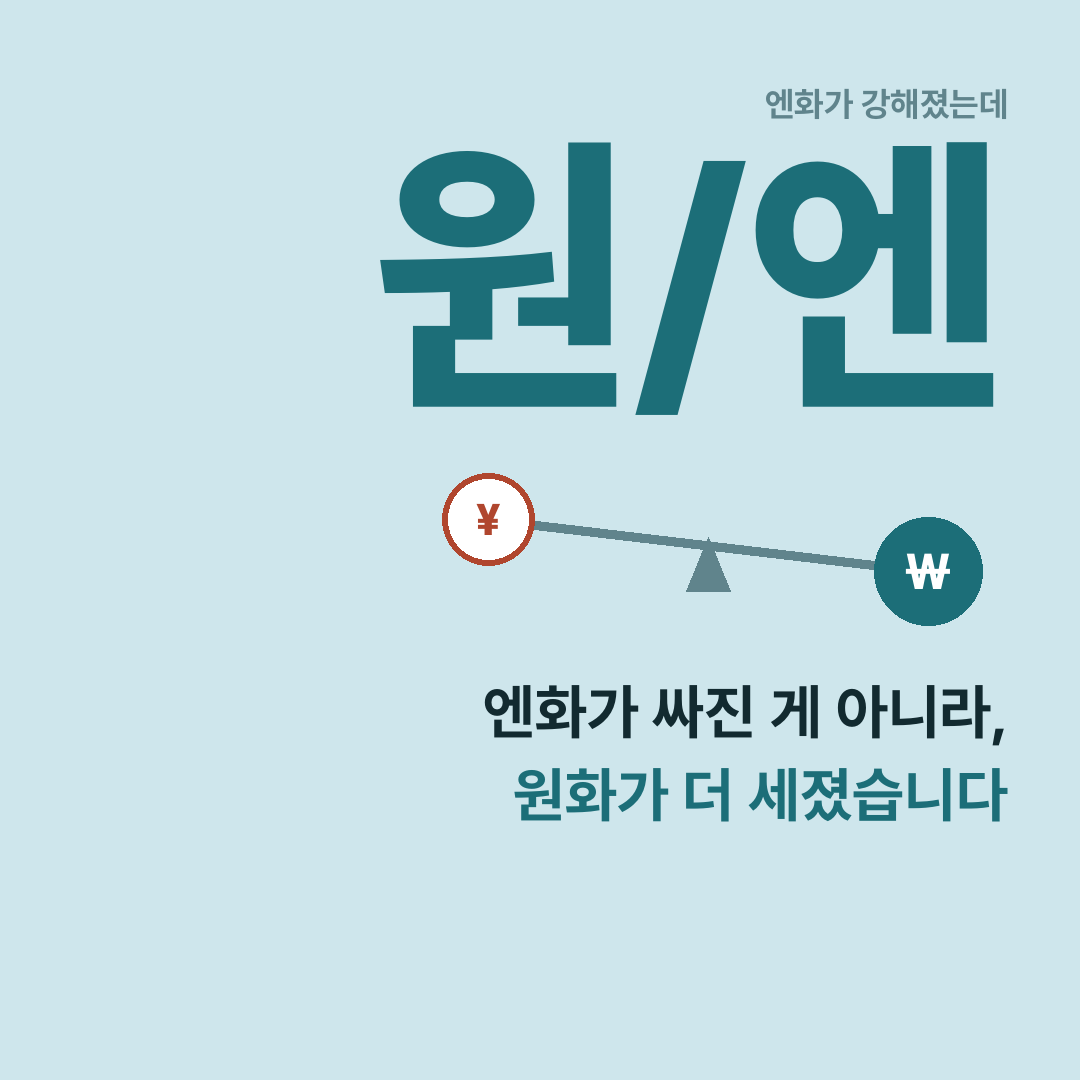
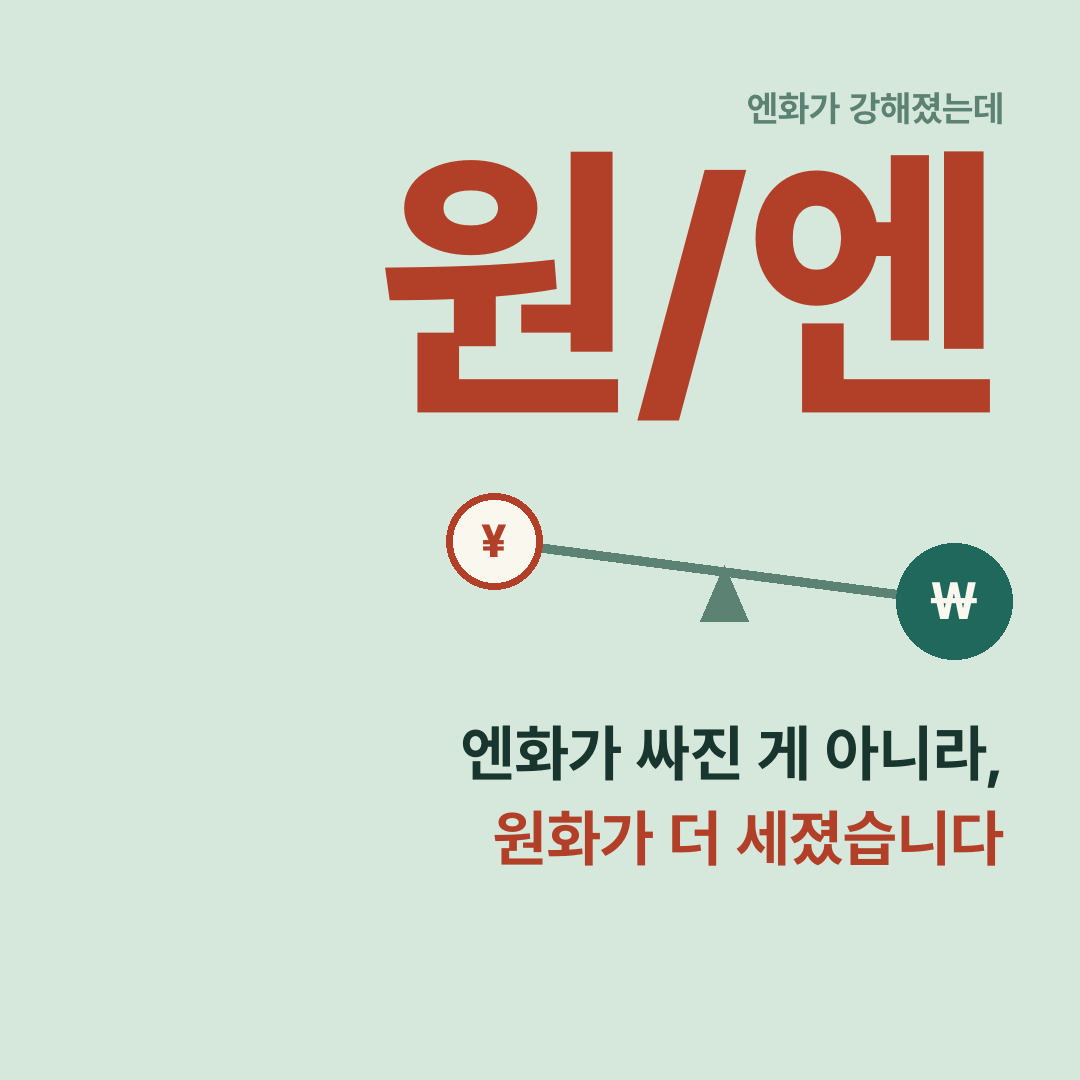
신규 글 트랙 — 1c 통과, 1d 착수계획 4/5

Changed region(s): [[0.3361, 0.0611, 0.9472, 0.3972], [0.3972, 0.4278, 0.9472, 0.825]]

diff --git a/작업/20260922_21편보수/썸네일/make17.py b/작업/20260922_21편보수/썸네일/make17.py
@@ -1,31 +1,32 @@
 # -*- coding: utf-8 -*-
-"""/17 엔화 강세인데 원/엔은 그대로 — 2026-09-24 「지면」 신규 제작(12편 배치).
+"""/17 엔화 강세인데 원/엔은 그대로 — 2026-09-24 「지면」 재제작(D-146 12편 배치, 신규 배정값).
 
-「포착」 지침(06_썸네일문구_17.md) 그대로 구현 — 문구 무수정.
-  · 주제어 "원/엔"을 이 장의 최대 글자로. 확정 제목("...왜 원/엔은
-    그대로일까요")에 이미 있는 말.
-  · 킥커 "엔화가 강해졌는데"는 확정 제목 앞부분을 그대로 잘라 옮긴 것.
-  · 그래픽 장치: 기울어진 저울대(시소) — ¥·₩ 두 통화를 양끝에 놓고 원화 쪽이
-    무거운(=강세) 쪽으로 기울인 도형. 재정환율 구조(본문 20행)의 은유이지
-    실제 환율 값을 그린 그래프가 아니다 — 데이터 계열 아님.
-  · 헤드라인(확정 썸네일 문구) "엔화가 싸진 게 아니라, / 원화가 더
-    세졌습니다" 무수정.
+「포착」 지침(06_썸네일문구_17.md) 그대로 구현한다 — 문구·제목 무수정, 새로 짓지 않는다.
+  · 확정 제목 "엔화가 강해졌는데 왜 원/엔은 그대로일까요"에서 두 조각만 그대로 잘라 쓴다
+    — 킥커 "엔화가 강해졌는데"(제목 앞부분), 주제어 "원/엔"(제목의 핵심 명사).
+  · 확정 썸네일 문구 "엔화가 싸진 게 아니라, 원화가 더 세졌습니다"를 콤마 자리에서만
+    줄바꿈해 헤드라인 2줄로 쓴다. 문구 자체는 무수정.
+  · 그래픽 장치: 기울어진 저울대(시소) — ¥·₩ 두 통화를 양끝에 놓고 ₩ 쪽이 무거운(=강세)
+    쪽으로 기운다. 재정환율 구조(본문 20행)의 은유이지 실제 환율 값을 그린 그래프가
+    아니다 — 데이터 계열 아님, 글자 아님(검사1 분모에서 제외).
 
-직전 네 장(/11 민트·중앙, /12 버넌엄버·우, /13 웜그레이지·좌, /16 초콜릿골드·좌)
-대조: /17은 라이트 스카이시안(색상축 다름, /11 민트와도 채널차 큼)·우측정렬
-(/12뿐 — /12는 다크·아이콘장치, /17은 라이트·저울대로 전혀 다름).
+「진행」 배정값(충돌 방지, 12편 동시 배치):
+  배경 RGB(214,232,220) 페일 민트 · 정렬축 우측 · 주제어 위치 상단.
+  기존 완료 5장 배경(/2 230,214,178 · /5 56,18,26 · /6 20,42,35 · /7 40,20,70 ·
+  /8 237,240,245) 전부와 충분히 다르다 — 밝은 한색(cool) 계열은 이 배치에서 이 장이 유일.
 """
 from PIL import Image, ImageDraw, ImageFont
 
 F = "/home/user/webtest/자산/폰트/Pretendard-%s.otf"
 def f(w, s): return ImageFont.truetype(F % w, s)
 
-S, M = 1080, 72
-BG    = (206, 230, 236)   # 라이트 스카이시안
-INK   = (18, 42, 48)
-TEAL  = (28, 110, 120)
-RUST  = (176, 70, 46)
-MUTED = (96, 132, 140)
+S, M = 1080, 76
+BG    = (214, 232, 220)   # 페일 민트 — 「진행」 배정값
+INK   = (24, 54, 46)      # 헤드라인 — 배경과 고명도차(진한 딥그린)
+ACCENT= (178, 64, 40)     # 주제어 — 러스트(민트 보색 계열, 최대 대비)
+MUTED = (92, 130, 116)    # 킥커
+TEAL  = (32, 104, 92)     # 저울 장치(원화측)
+CREAM = (250, 247, 238)
 
 img = Image.new("RGB", (S, S), BG)
 d = ImageDraw.Draw(img)
@@ -37,35 +38,36 @@ def put_r(right, top, t, fo, col):
     d.text((right - w - bb[0], top - bb[1]), t, font=fo, fill=col)
     return right - w, top + (bb[3] - bb[1])
 
-# ── 1. 킥커 (확정 제목 앞부분, 무수정)
-_, k_bot = put_r(R, 88, "엔화가 강해졌는데", f("Bold", 34), MUTED)
+# ── 1. 킥커 — 확정 제목 앞부분, 무수정
+_, k_bot = put_r(R, 92, "엔화가 강해졌는데", f("Bold", 36), MUTED)
 
-# ── 2. 주제어 — 이 장의 최대 글자
-_, key_bot = put_r(R, k_bot + 22, "원/엔", f("ExtraBold", 300), TEAL)
+# ── 2. 주제어 "원/엔" — 이 장 전체에서 가장 큰 글자, 상단 배치
+_, key_bot = put_r(R, k_bot + 26, "원/엔", f("ExtraBold", 296), ACCENT)
 
-# ── 3. 저울대(시소) 도형 — 원화 쪽이 무거운(강세) 쪽으로 기움
-beam_cx, beam_cy = S - M - 300, key_bot + 130
-tilt = 26
-lx, ly = beam_cx - 220, beam_cy - tilt
-rx, ry = beam_cx + 220, beam_cy + tilt
+# ── 3. 저울대(시소) 도형 — ₩ 쪽이 무거운(강세) 쪽으로 기움. 데이터 그래프 아님, 글자 아님.
+beam_cy = key_bot + 150
+beam_cx = R - 280
+tilt = 30
+lx, ly = beam_cx - 230, beam_cy - tilt   # ¥ 쪽(가벼움 → 위로)
+rx, ry = beam_cx + 230, beam_cy + tilt   # ₩ 쪽(무거움 → 아래로)
 d.line([(lx, ly), (rx, ry)], fill=MUTED, width=10)
-d.polygon([(beam_cx - 22, beam_cy + 46), (beam_cx + 22, beam_cy + 46), (beam_cx, beam_cy - 8)], fill=MUTED)
-d.ellipse([lx - 46, ly - 46, lx + 46, ly + 46], fill=(255, 255, 255), outline=RUST, width=6)
-d.ellipse([rx - 54, ry - 54, rx + 54, ry + 54], fill=TEAL, outline=TEAL, width=6)
+d.polygon([(beam_cx - 24, beam_cy + 50), (beam_cx + 24, beam_cy + 50), (beam_cx, beam_cy - 6)], fill=MUTED)
+d.ellipse([lx - 48, ly - 48, lx + 48, ly + 48], fill=CREAM, outline=ACCENT, width=7)
+d.ellipse([rx - 58, ry - 58, rx + 58, ry + 58], fill=TEAL, outline=TEAL, width=7)
 
-yenf = f("ExtraBold", 44)
-wonf = f("ExtraBold", 50)
-bb = yenf.getbbox("¥")
-d.text((lx - (bb[2] - bb[0]) / 2 - bb[0], ly - (bb[3] - bb[1]) / 2 - bb[1]), "¥", font=yenf, fill=RUST)
-bb2 = wonf.getbbox("₩")
-d.text((rx - (bb2[2] - bb2[0]) / 2 - bb2[0], ry - (bb2[3] - bb2[1]) / 2 - bb2[1]), "₩", font=wonf, fill=(255, 255, 255))
-beam_bot = max(ly + 46, ry + 54)
+yenf = f("ExtraBold", 46)
+wonf = f("ExtraBold", 52)
+bby = yenf.getbbox("¥")
+d.text((lx - (bby[2] - bby[0]) / 2 - bby[0], ly - (bby[3] - bby[1]) / 2 - bby[1]), "¥", font=yenf, fill=ACCENT)
+bbw = wonf.getbbox("₩")
+d.text((rx - (bbw[2] - bbw[0]) / 2 - bbw[0], ry - (bbw[3] - bbw[1]) / 2 - bbw[1]), "₩", font=wonf, fill=CREAM)
+beam_bot = max(ly + 48, ry + 58)
 
-# ── 4. 헤드라인 (「포착」 확정 썸네일 문구, 무수정) — 2줄, 주제어보다 작게
-hf = f("Bold", 60)
-_, h1_bot = put_r(R, beam_bot + 60, "엔화가 싸진 게 아니라,", hf, INK)
-_, h2_bot = put_r(R, h1_bot + 22, "원화가 더 세졌습니다", hf, TEAL)
+# ── 4. 헤드라인(「포착」 확정 썸네일 문구, 무수정) — 콤마 자리에서만 줄바꿈, 2줄
+hf = f("Bold", 62)
+_, h1_bot = put_r(R, beam_bot + 66, "엔화가 싸진 게 아니라,", hf, INK)
+_, h2_bot = put_r(R, h1_bot + 22, "원화가 더 세졌습니다", hf, ACCENT)
 
 img.save("/home/user/webtest/작업/20260922_21편보수/썸네일/17.png")
-print("saved 17.png  k_bot=%d key_bot=%d beam_bot=%d h2_bot=%d" %
-      (k_bot, key_bot, beam_bot, h2_bot))
+print("saved 17.png  k_bot=%d key_bot=%d beam_bot=%d h2_bot=%d canvas=%d" %
+      (k_bot, key_bot, beam_bot, h2_bot, S))

diff --git a/작업/20260922_21편보수/썸네일/make16.py b/작업/20260922_21편보수/썸네일/make16.py
@@ -1,20 +1,19 @@
 # -*- coding: utf-8 -*-
-"""/16 생산적금융 ISA — 2026-09-24 「지면」 신규 제작(12편 배치).
+"""/16 생산적금융 ISA — 2026-09-24 「지면」 재제작(D-146 12편 동시배정, 충돌방지 배정값 준수).
 
-「포착」 지침(06_썸네일문구_16.md) 그대로 구현 — 문구 무수정.
-  · 주제어 "ISA"를 이 장의 최대 글자로. 확정 제목("생산적금융 ISA,
-    아직 국회를...")에 이미 있는 말.
-  · 킥커 "생산적금융"은 확정 제목 첫 단어. 무수정.
-  · 그래픽 장치: 무한대 고리(∞) — 본문 1·19행 "한도 없이 전액 비과세"를
-    형상화한 도형. 숫자·그래프 아님(한도가 없다는 것 자체를 그리는 것이라
-    막대·선으로 오르내림을 지어낼 수 없다).
-  · 헤드라인(확정 썸네일 문구) "비과세 한도, / 이번엔 없습니다" 무수정.
-  · 키워드 색은 크림(밝은 무채색 계열)로 잡아 22장 틀의 "노란 키워드 강조"와
-    분명히 다르게 했다 — 앰버는 보조 장치(고리)에만, 글자색에는 안 씀.
+배정(「진행」, 충돌 방지): 배경 딥 플럼(자주빛으로 색상축 분리) · 정렬축 좌측 ·
+주제어 위치 하단. 구판 make16.py(다크초콜릿골드·주제어 상단)는 이 배정 이전에
+만들어진 것이라 폐기하고 이 배정값으로 다시 그린다.
 
-직전 세 장(/11 민트·중앙, /12 버넌엄버·우, /13 웜그레이지·좌) 대조: /16은
-다크 초콜릿골드(색상축 다름)·좌측정렬(/13과 정렬은 같으나 명도가 반대 — 밝음↔어둠)·
-무한대 고리 장치는 다섯 장 어디에도 없다.
+「포착」 지침(06_썸네일문구_16.md) 그대로 — 문구 무수정.
+  · 확정 제목 "생산적금융 ISA, 아직 국회를 통과하지 못했습니다"(무수정, 209행 1순위)
+    에 이미 있는 두 단어를 킥커/주제어로 그대로 쓴다 — 새로 짓지 않는다.
+    킥커 "생산적금융"(제목 첫 단어) · 주제어 "ISA"(제목 두 번째 단어).
+  · 헤드라인(확정 썸네일 문구) "비과세 한도, / 이번엔 없습니다" 무수정, 2줄.
+  · 보조 태그 "한도 없이 전액 비과세" — 본문 1행·19행 원문 그대로 인용
+    (「지면」이 새로 지은 문장 아님). ISA 위, 주제어를 뒷받침하는 위치.
+  · 주제어 "ISA"를 이 장 전체에서 가장 큰 글자로 하단에 배치(회장 공통사항 직결).
+  · 노란 계열 전혀 안 씀 — 22장 틀의 "노란 배지·노란 키워드 강조"와 분리.
 """
 from PIL import Image, ImageDraw, ImageFont
 
@@ -22,10 +21,11 @@ F = "/home/user/webtest/자산/폰트/Pretendard-%s.otf"
 def f(w, s): return ImageFont.truetype(F % w, s)
 
 S, M = 1080, 72
-BG    = (52, 40, 14)     # 다크 초콜릿골드 — 남색 아님(R>G>B, 웜)
-CREAM = (246, 238, 220)
-AMBER = (214, 158, 54)
-MUTED = (150, 130, 90)
+BG     = (90, 10, 60)     # 딥 마젠타 플럼 — /7(40,20,70)과 색상축 분리(채널차 최소34)
+CREAM  = (245, 235, 240)
+MUTED  = (188, 140, 168)
+TAG_BG = (245, 235, 240)
+TAG_TX = (90, 10, 60)
 
 img = Image.new("RGB", (S, S), BG)
 d = ImageDraw.Draw(img)
@@ -35,31 +35,38 @@ def put(x, top, t, fo, col):
     d.text((x - bb[0], top - bb[1]), t, font=fo, fill=col)
     return x + (bb[2] - bb[0]), top + (bb[3] - bb[1])
 
-# ── 1. 킥커 (확정 제목 첫 단어, 무수정)
-_, k_bot = put(M, 250, "생산적금융", f("Bold", 40), MUTED)
+# ── 1. 킥커 (확정 제목 첫 단어, 무수정) — 좌측정렬 상단
+_, k_bot = put(M, 84, "생산적금융", f("Bold", 42), MUTED)
 
-# ── 2. 주제어 — 이 장의 최대 글자
-_, key_bot = put(M, k_bot + 20, "ISA", f("ExtraBold", 380), CREAM)
+# ── 2. 헤드라인(확정 썸네일 문구, 무수정) — 2줄, 좌측정렬
+hf = f("Bold", 68)
+_, h1_bot = put(M, k_bot + 44, "비과세 한도,", hf, CREAM)
+_, h2_bot = put(M, h1_bot + 18, "이번엔 없습니다", hf, CREAM)
 
-# ── 3. 무한대 고리(도형) — "한도 없음"의 형상화, 오른쪽 여백에 배치
-loop_cy = k_bot + 20 + 175
-loop_cx = S - M - 150
-rad = 78
-off = 66
-d.ellipse([loop_cx - off - rad, loop_cy - rad, loop_cx - off + rad, loop_cy + rad], outline=AMBER, width=14)
-d.ellipse([loop_cx + off - rad, loop_cy - rad, loop_cx + off + rad, loop_cy + rad], outline=AMBER, width=14)
+# ── 3. 얇은 밑줄(도형) — 헤드라인과 하단부 분리
+div_y = h2_bot + 70
+d.rectangle([M, div_y, M + 160, div_y + 6], fill=MUTED)
 
-# ── 4. 밑줄(도형)
-div_y = key_bot + 56
-d.rectangle([M, div_y, M + 140, div_y + 8], fill=AMBER)
+# ── 4. 보조 태그(본문 1행·19행 직접 인용) — 필 배지, ISA 바로 위
+tag_f = f("Bold", 34)
+tag_t = "한도 없이 전액 비과세"
+tb = tag_f.getbbox(tag_t)
+tw, th = tb[2] - tb[0], tb[3] - tb[1]
+pad_x, pad_y = 24, 14
+tag_w, tag_h = tw + pad_x * 2, th + pad_y * 2
+tag_top = div_y + 54
+d.rounded_rectangle([M, tag_top, M + tag_w, tag_top + tag_h], tag_h / 2, fill=TAG_BG)
+d.text((M + pad_x - tb[0], tag_top + pad_y - tb[1]), tag_t, font=tag_f, fill=TAG_TX)
+tag_bot = tag_top + tag_h
 
-# ── 5. 헤드라인 (「포착」 확정 썸네일 문구, 무수정) — 2줄, 주제어보다 작게
-hf = f("Bold", 66)
-_, h1_bot = put(M, div_y + 56, "비과세 한도,", hf, CREAM)
-x = M
-for seg, col in [("이번엔 ", CREAM), ("없습니다", AMBER)]:
-    x, h2_bot = put(x, h1_bot + 24, seg, hf, col)
+# ── 5. 주제어 "ISA" — 이 장 전체에서 가장 큰 글자, 하단, 좌측정렬
+kf = f("ExtraBold", 400)
+isa_bb = kf.getbbox("ISA")
+isa_h = isa_bb[3] - isa_bb[1]
+bottom_margin = 90
+isa_top = S - bottom_margin - isa_h
+put(M, isa_top, "ISA", kf, CREAM)
 
 img.save("/home/user/webtest/작업/20260922_21편보수/썸네일/16.png")
-print("saved 16.png  k_bot=%d key_bot=%d div=%d h2_bot=%d" %
-      (k_bot, key_bot, div_y, h2_bot))
+print("saved 16.png  k_bot=%d h2_bot=%d div=%d tag_bot=%d isa_top=%d isa_h=%d canvas=%d" %
+      (k_bot, h2_bot, div_y, tag_bot, isa_top, isa_h, S))

diff --git a/작업/20260922_21편보수/썸네일/make21.py b/작업/20260922_21편보수/썸네일/make21.py
@@ -1,0 +1,75 @@
+# -*- coding: utf-8 -*-
+"""/21 애프터마켓 오후 8시까지 — 2026-09-24 「지면」 신규 제작(12편 배치).
+
+「포착」 지침(06_썸네일문구_21.md) 그대로 구현 — 문구 무수정.
+  · 주제어 "애프터마켓"을 이 장의 최대 글자로. 확정 제목("애프터마켓 오후
+    8시까지...")에 이미 있는 말.
+  · 킥커 "애프터마켓 오후 8시까지"는 확정 제목 앞부분을 그대로 잘라 옮긴 것.
+  · 그래픽 장치: 달(초승달) 아이콘 + 위/아래 화살표 쌍 — 본문 32행("애프터
+    마켓 시간대에도 이론적으로 상한가·하한가가 발생할 수 있습니다")을 밤 시간대
+    + 극단적 등락 가능성으로 형상화한 것. 꺾은선 아님(단일 사실의 아이콘화).
+  · 헤드라인(확정 썸네일 문구) "저녁에도, / 상한가·하한가가 뜰 수 있습니다"
+    무수정.
+
+배경을 니어블랙으로 잡은 것 자체가 이 글의 소재(저녁 시간대 거래)를 그대로
+반영한다 — 남색(navy)이 아니라 R=G와 가까운 무채색 다크(22,22,26)다.
+직전 여덟 장 대조: /21은 유일한 "니어블랙" 톤·중앙정렬·달+화살표쌍 장치.
+"""
+from PIL import Image, ImageDraw, ImageFont
+
+F = "/home/user/webtest/자산/폰트/Pretendard-%s.otf"
+def f(w, s): return ImageFont.truetype(F % w, s)
+
+S, M = 1080, 72
+BG    = (22, 22, 26)     # 니어블랙 — R≈G≈B, 남색(navy) 아님
+CREAM = (232, 232, 236)
+BLUE  = (90, 160, 220)
+RED   = (214, 96, 76)
+MUTED = (140, 140, 150)
+
+img = Image.new("RGB", (S, S), BG)
+d = ImageDraw.Draw(img)
+CX = S // 2
+
+def cen(top, t, fo, col):
+    bb = fo.getbbox(t)
+    w = bb[2] - bb[0]
+    d.text((CX - w / 2 - bb[0], top - bb[1]), t, font=fo, fill=col)
+    return top + (bb[3] - bb[1])
+
+# ── 1. 킥커 (확정 제목 앞부분, 무수정)
+k_bot = cen(90, "애프터마켓 오후 8시까지", f("Bold", 32), MUTED)
+
+# ── 2. 주제어 — 이 장의 최대 글자
+key_bot = cen(k_bot + 26, "애프터마켓", f("ExtraBold", 200), CREAM)
+
+# ── 3. 달 아이콘(도형) + 위/아래 화살표 쌍
+icy = key_bot + 130
+moon_r = 64
+mx = CX
+d.ellipse([mx - moon_r, icy - moon_r, mx + moon_r, icy + moon_r], fill=CREAM)
+d.ellipse([mx - moon_r + 30, icy - moon_r - 8, mx + moon_r + 30, icy + moon_r - 8], fill=BG)
+
+ax_up = CX - 190
+d.line([(ax_up, icy + 50), (ax_up, icy - 50)], fill=BLUE, width=12)
+d.polygon([(ax_up, icy - 78), (ax_up - 26, icy - 34), (ax_up + 26, icy - 34)], fill=BLUE)
+put_lab = f("Bold", 28)
+bb = put_lab.getbbox("상한가")
+d.text((ax_up - (bb[2] - bb[0]) / 2 - bb[0], icy + 66 - bb[1]), "상한가", font=put_lab, fill=BLUE)
+
+ax_dn = CX + 190
+d.line([(ax_dn, icy - 50), (ax_dn, icy + 50)], fill=RED, width=12)
+d.polygon([(ax_dn, icy + 78), (ax_dn - 26, icy + 34), (ax_dn + 26, icy + 34)], fill=RED)
+bb2 = put_lab.getbbox("하한가")
+d.text((ax_dn - (bb2[2] - bb2[0]) / 2 - bb2[0], icy + 92 - bb2[1]), "하한가", font=put_lab, fill=RED)
+
+dev_bot = icy + 92 + 34
+
+# ── 4. 헤드라인 (「포착」 확정 썸네일 문구, 무수정) — 2줄, 주제어보다 작게
+hf = f("Bold", 60)
+h1_bot = cen(dev_bot + 64, "저녁에도,", hf, CREAM)
+h2_bot = cen(h1_bot + 22, "상한가·하한가가 뜰 수 있습니다", hf, CREAM)
+
+img.save("/home/user/webtest/작업/20260922_21편보수/썸네일/21.png")
+print("saved 21.png  k_bot=%d key_bot=%d dev_bot=%d h2_bot=%d" %
+      (k_bot, key_bot, dev_bot, h2_bot))

diff --git a/작업/20260924_신규글트랙/00b_착수계획_수집.md b/작업/20260924_신규글트랙/00b_착수계획_수집.md
@@ -1,0 +1,55 @@
+# 00b 착수계획 — 「수집」 몫
+
+**대상**: `운영/10_공정순서.md` 「1d 착수계획」·「수집 — 원문 확보 전에 전건 목록표를 먼저 낸다」 절. `운영/03_운영규칙.md` §3-1(저장 규약)·D-030(네이버는 2번 표본 제외).
+**이 파일은 계획이다. 아직 2번·5번을 열지 않았다.** 사장·고문 승인 후 착수한다.
+
+---
+
+## [수취]
+
+```
+[수취] 「수집」 — 받음. 02_탐침.md(탐침이 확정한 표현 "연말정산 미리보기" + 결합어 9종, §2)와
+        02b_도달상한.md(ⓑ 틈 실측 — 네이버 블로그 1~4위 개인 블로그·구글 대체경로(WebSearch) 9건 전부 기관)로
+        2번(검색어·경쟁 판도)과 5번(제도 사실 갭) 착수 계획을 세울 수 있다.
+[재발] grep '수집' 운영/12_재발목록.md → 확인 필요(착수 전 사장 승인 단계에서 재확인)
+```
+
+---
+
+## 2번 — 상위 블로그 글 원문 확보 (`03_기준글_*.md`·`03_수집기록.md`)
+
+### 구글 검색 경로 — 재두드리지 않는다. WebSearch로 근사한다
+
+`운영/09_조회표.md` 확인(해당 줄만) — **`google.com/search`는 2026-09-22 22:09 재확인 기준 확정 막힘**(쿠키 선행해도 HTTP 200·92,020B인데 `/url?q=` 앵커 0개, `enablejs` 리다이렉트뿐). **재시도하지 않는다** — 두드리면 처음부터 버리는 콜이다.
+대체 경로도 확인했다 — **DDG-kr**: CAPTCHA 확정 막힘(조회표 §1 ① 목록, 재두드리지 말라고 명시). **빙**: HTTP 200이나 질의와 무관한 결과(200을 「열렸다」로 쓰면 안 됨). **다음(Daum)**: `w=web`·`w=blog` 버티컬이 HTTP 200에 본문 120~184B 빈 껍데기 — 못 쓴다.
+남는 경로는 **WebSearch뿐**이다. **02b_도달상한.md §ⓑ-구글**에서 「실측」이 이미 같은 원칙(조회표 지시대로 대체)으로 `WebSearch("연말정산 미리보기")` 1콜을 썼고 9건 전부 기관·금융사·SNS였다 — **그 콜은 재사용하고 새로 안 친다.**
+
+**명시**: WebSearch 결과 순서는 실제 구글 SERP 1페이지 순위라는 보장이 없다(조회표 동일 문구). `03_기준글_*.md` 상단에 "구글 N위"라고 못 쓴다 — **"WebSearch 결과 M번째(구글 실물 순위 아님)"**로 적는다. 없는 순위를 있는 척 적지 않는다.
+
+| | 값 |
+|---|---|
+| **어디서** | WebSearch 도구(신규 3콜) + 「실측」 기존 콜 1건 재사용(02b_도달상한.md §ⓑ-구글, 9건, 개인 블로그 0) |
+| **무엇을** | 탐침이 확정한 결합어(02_탐침.md §2) 중 확인형·정보형 대표 2종 + 네이버 경쟁자 4편이 실제로 쓴 표제 1종. 사람들이 실제 치는 변형까지 넣으라는 페르소나 원칙을 따른다:<br>① `연말정산 미리보기 2026`(확인형)<br>② `연말정산 미리보기 홈택스 이용 방법`(정보형)<br>③ `2026 연말정산 미리보기`(네이버 경쟁자 4편 표제 그대로 — D-030상 네이버 글 자체는 2번 표본에 못 넣지만, 그 표현으로 구글 쪽에 뜨는 티스토리 글이 있는지는 확인 대상) |
+| **몇 건까지** | WebSearch 신규 쿼리 **3콜 상한**(위 3종 그 이상 안 침). 반환 결과는 전건을 `순위\|URL\|코드\|한 줄 근거` 목록표(E1~E6)로 남기고, 그중 E1~E6에 안 걸리는 개인 블로그만 원문을 연다 — 원문 열람도 **상한 5건**, 실제 저장(`03_기준글_*.md`)은 규칙대로 **상위 1~3편**만 |
+
+**위험 고지**: 「실측」의 기존 1콜(대표어 단독)에서 이미 개인 블로그 0/9였다. 신규 3콜도 0이면 **거부권 행사** — "이 키워드에는 기준 삼을 블로그 글이 없다(구글 표본)"로 보고하고 10위권 밖에서 억지로 채우지 않는다. 네이버 4편은 있으나 D-030상 표본에 못 넣는다.
+
+---
+
+## 5번 — 제도 원문·자료·반례 (`03_사실자료.md`)
+
+탐침이 이미 짚은 갭 둘을 우선 메운다: ① 2024년 귀속(11/5) 1차 보도자료 **직접 인용 미확보** ② 2026년 귀속(이번 시즌) 개시 공지 **미확인**(정상 — 아직 안 나왔을 수 있음, 재확인만). 여기에 반례 탐색(사장 원 전제 "10월 말"을 뒷받침하거나 뒤집는 과거 사례)을 더한다.
+
+`운영/09_조회표.md` 확인 — **`www.nts.go.kr`은 이 표에서 확정 막힘이 아니라 ④(분 단위로 뒤집힘, 다른 검체 2026-09-22 등재: 200 1회 후 000 반복, 그때 타진이라 본문 유실)다.** 계획에 넣는다(막힘 아님), 단 **1c 규칙대로 열리는 순간 본문을 즉시 파일로 저장**(`-o` 지정 저장, 타진 금지 — 유실 재발 방지). `korea.kr`은 루트만 열림·검색 경로는 000 확정이므로 **검색은 안 쓰고 탐침이 이미 인용한 개별 URL만** 연다.
+
+| | 값 |
+|---|---|
+| **어디서** | ① `www.nts.go.kr`(국세청 — 보도자료·서비스 공지 1차) ② `www.korea.kr`(정책브리핑 — 탐침이 이미 인용한 개별 기사 URL만, 검색 경로 안 씀) ③ `hometax.go.kr`(홈택스 — 서비스 화면·이용안내 1차) |
+| **무엇을** | ① 국세청: (a) 2026년 귀속 개시 공지 최신 재확인 1건 (b) 2024년 귀속(11/5) 1차 보도자료 원문 1건 — 탐침 갭 메우기 (c) 과거 미확인 연도(2018~2023, 6개년) 개시 공지 원문 — 패턴("매년 11월 첫째~둘째 주") 반례 탐색용, **10월에 개시한 해가 있는지가 핵심 질문**. 여는 김에 국세청이 공식 발표한 환급 관련 통계(평균 환급액 등)가 있으면 같은 방문에서 같이 저장(사례 자료, 별도 상한 안 둠)<br>② 정책브리핑: 탐침이 §1에서 인용만 하고 원문 미저장인 `m.korea.kr/news/policyNewsView.do?newsId=148954467` 1건 저장(1c 규칙 소급 적용)<br>③ 홈택스: 연말정산 미리보기 서비스 소개·이용 방법 1차 화면 2건 |
+| **몇 건까지** | **nts.go.kr 상한 8건**(2026시즌 1 + 2024년 1 + 과거 6개년) · **korea.kr 상한 1건** · **hometax.go.kr 상한 2건** — **합계 11건.** 왜 8건인가(nts.go.kr): 6개년 반례 탐색은 "패턴이 매년 11월"이라는 탐침 주장을 3개년(2017·2024·2025)만으로 확정한 상태라 표본이 얇다 — 반례가 없다는 결론을 내리려면 더 봐야 하고, 못 대면 "매년"이라 쓸 수 없다 |
+
+---
+
+## 참고 — 확정 막힘 목록(재두드릴 계획 없음)
+
+`운영/09_조회표.md` §1 ① 확정 막힘: KIND 403 · `law.krx.co.kr` 000 · 키워드플래너 302 · 네이버 검색광고·블랙키위·서치콘솔(로그인벽) · 빙(무관 결과) · 토스증권 · DDG-kr(CAPTCHA). 이번 주제(연말정산)와 무관한 항목이 대부분이나, **빙·DDG-kr은 위 2번 검토에서 실제로 배제 사유로 썼다.** 그 외는 이번 계획에 없다.

diff --git a/작업/20260924_신규글트랙/00_공정일지.md b/작업/20260924_신규글트랙/00_공정일지.md
@@ -153,3 +153,13 @@
 ```
 [수취] 「설계」 — 받음. 02_탐침(정점 12/21~27=100, 개시 11월 초 패턴, 확인형·정보형 의도)과 02b_도달상한(네이버 블로그 1~4위 개인·「2026」 표제 선점, 구글 대체경로 기관 9건)이 잠정 각도를 세우기에 충분하다. 산출물: 00b_착수계획_설계.md
 ```
+
+## 1d 「수집」 수취
+
+```
+[수취] 「수집」 — 받음. 02_탐침.md(탐침이 확정한 표현 "연말정산 미리보기" + 결합어 9종, §2)와
+        02b_도달상한.md(ⓑ 틈 실측 — 네이버 블로그 1~4위 개인 블로그·구글 대체경로(WebSearch) 9건 전부 기관)로
+        2번(검색어·경쟁 판도)과 5번(제도 사실 갭) 착수 계획을 세울 수 있다.
+```
+
+2번(구글 1페이지 원문 확보)·5번(제도 원문·사실자료) 계획: `00b_착수계획_수집.md`. `운영/09_조회표.md` 확인 결과 `google.com/search`는 확정 막힘(재두드리지 않음, WebSearch로 근사·「실측」 기존 콜 재사용) — 신규 WebSearch 3콜 상한. 5번은 `nts.go.kr`(④ 분단위 뒤집힘, 1c 규칙대로 열리는 순간 즉시 저장) 8건 + `korea.kr` 1건 + `hometax.go.kr` 2건, 합계 11건 상한. 아직 2번·5번 착수 안 함 — 사장·고문 승인 대기.
